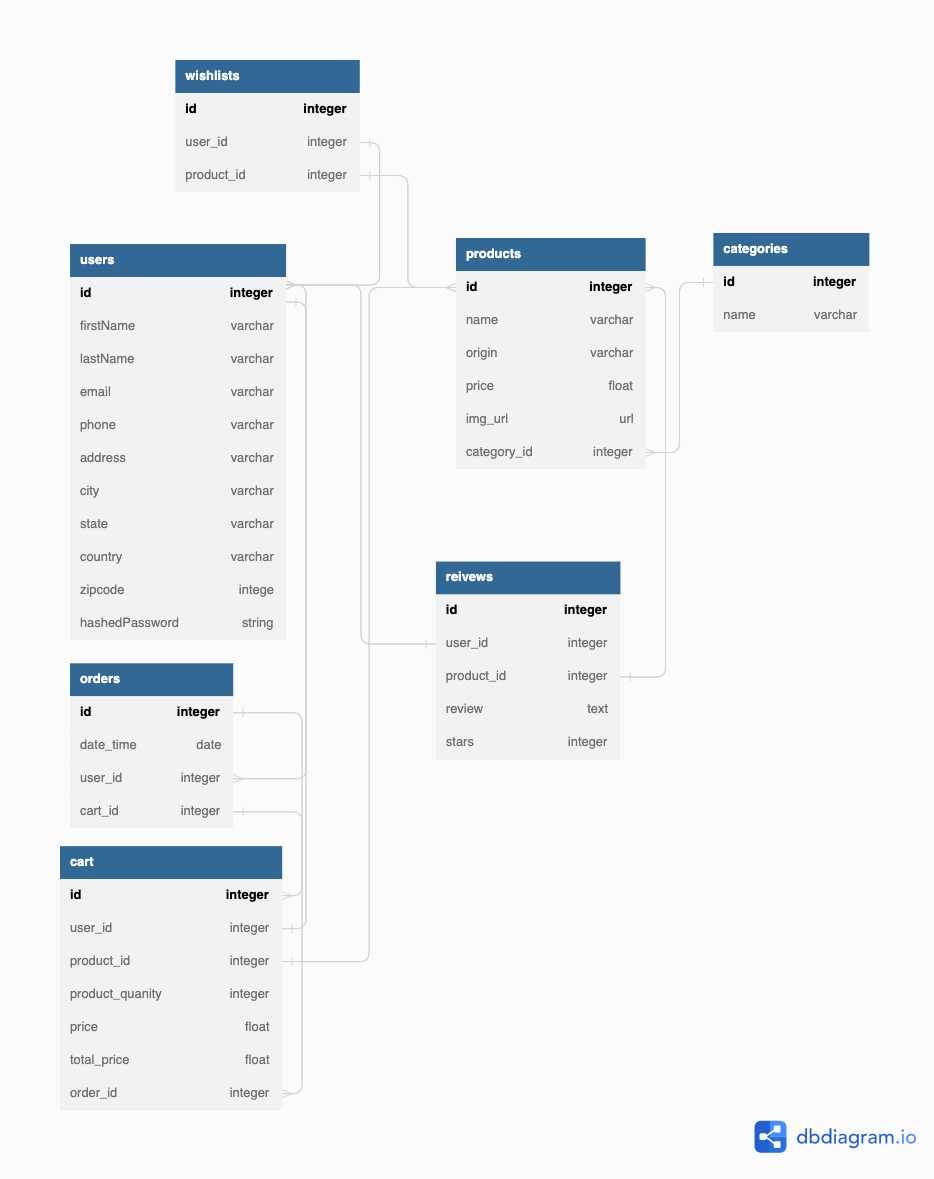
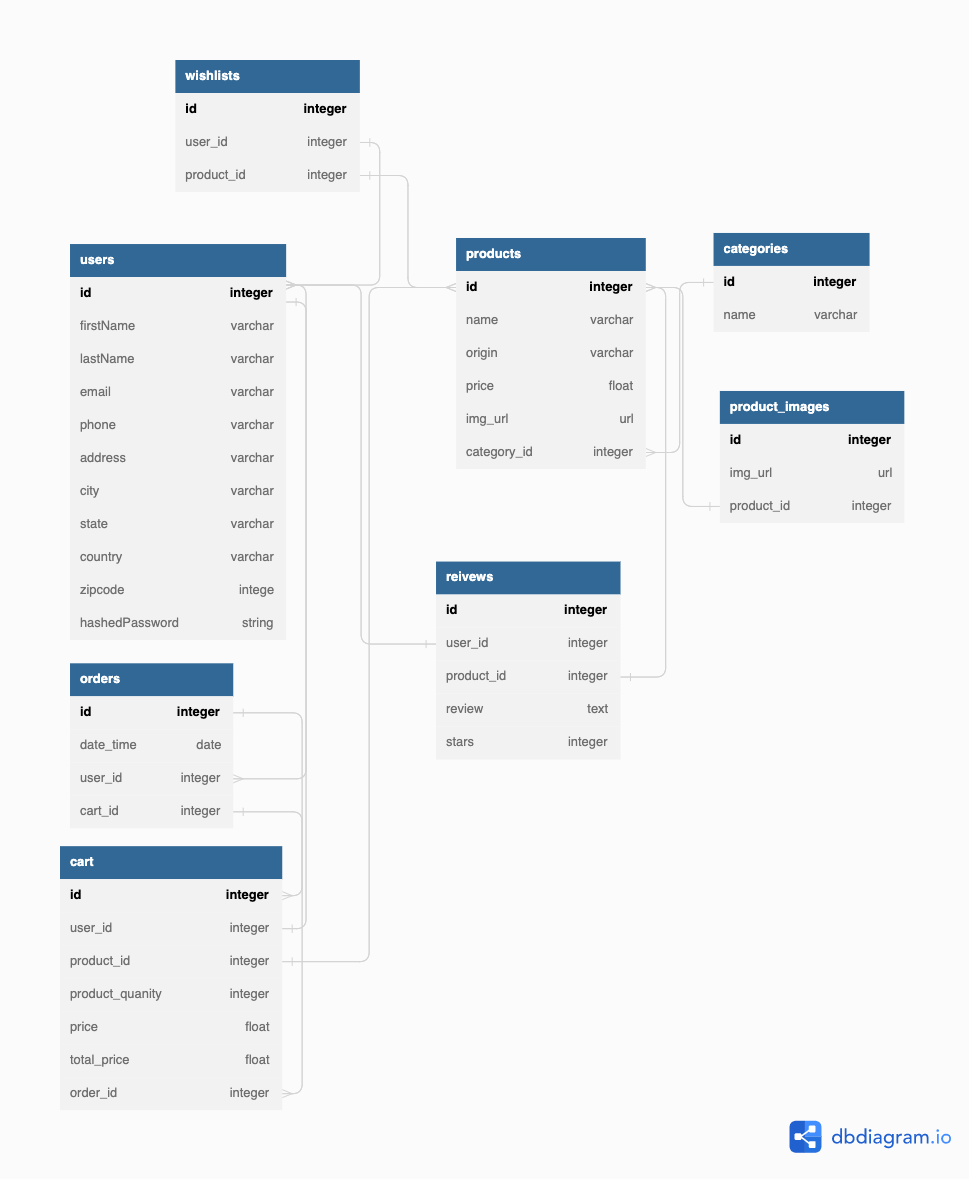
added relationships

diff --git a/app/models/user.py b/app/models/user.py
@@ -10,6 +10,23 @@ def add_prefix_for_prod(attr):
         return attr
 
 
+cart_products = db.Table(
+    "cart_products",
+    db.Column(
+        "product_id",
+        db.Integer,
+        db.ForeignKey("products.id"),
+        primary_key=True
+    ),
+    db.Column(
+        "cart_id",
+        db.Integer,
+        db.ForeignKey("carts.id"),
+        primary_key=True
+    )
+)
+
+
 class User(db.Model, UserMixin):
     __tablename__ = 'users'
 
@@ -27,6 +44,11 @@ class User(db.Model, UserMixin):
     state = db.Column(db.String(40))
     country = db.Column(db.String(40), default='United States')
     zip_code = db.Column(db.Integer)
+
+    cart = db.relationship('Cart', back_populates='user', cascade='all, delete-orphan')
+    order = db.relationship('Order', back_populates='user', cascade='all, delete-orphan')
+    review = db.relationship('Review', back_populates='user', cascade='all, delete-orphan')
+    wishlist = db.relationship('Wishlist', back_populates='user', cascade='all, delete-orphan')
 
     @property
     def password(self):
@@ -61,6 +83,13 @@ class Product(db.Model):
     category_id = db.Column(db.Integer, db.ForeignKey(
         add_prefix_for_prod('categories.id')), nullable=False)
 
+    product_images = db.relationship(
+        'ProductImage', back_populates='product', cascade='all, delete-orphan')
+    category = db.relationship('Category', back_populates='product')
+    cart = db.relationship('Cart', secondary='cart_products', back_populates='product')
+    review = db.relationship('Review', back_populates='product')
+    wishlist = db.relationship('Wishlist', back_populates='product')
+
     def to_dict(self):
         return {
             'id': self.id,
@@ -68,6 +97,45 @@ class Product(db.Model):
             'origin': self.origin,
             'price': self.price,
             'categoryId': self.category_id
+        }
+
+
+class ProductImage(db.Model):
+    __tablename__ = 'product_images'
+
+    if environment == "production":
+        __table_args__ = {'schema': SCHEMA}
+
+    id = db.Column(db.Integer, primary_key=True)
+    image_url = db.Column(db.Text, nullable=False)
+    product_id = db.Column(db.Integer, db.ForeignKey(
+        add_prefix_for_prod('products.id')), nullable=False)
+
+    product = db.relationship('Product', back_populates='product_images')
+
+    def to_dict(self):
+        return {
+            'id': self.id,
+            'imageUrl': self.image_url,
+            'productId': self.product_id
+        }
+
+
+class Category(db.Model):
+    __tablename__ = 'categories'
+
+    if environment == "production":
+        __table_args__ = {'schema': SCHEMA}
+
+    id = db.Column(db.Integer, primary_key=True)
+    name = db.Column(db.String(55), nullable=False)
+
+    product = db.relationship('Product', back_populates='category')
+
+    def to_dict(self):
+        return {
+            'id': self.id,
+            'name': self.name,
         }
 
 
@@ -83,6 +151,9 @@ class Order(db.Model):
         add_prefix_for_prod('users.id')), nullable=False)
     cart_id = db.Column(db.Integer, db.ForeignKey(
         add_prefix_for_prod('carts.id')), nullable=False)
+
+    user = db.relationship('User', back_populates='order')
+    cart = db.relationship('Cart', back_populates='order')
 
     def to_dict(self):
         return {
@@ -110,6 +181,10 @@ class Cart(db.Model):
     order_id = db.Column(db.Integer, db.ForeignKey(
         add_prefix_for_prod('orders.id')), nullable=False)
 
+    user = db.relationship('User', back_populates='cart')
+    order = db.relationship('Order', back_populates='cart')
+    product = db.relationship('Product', secondary='cart_products', back_populates='cart')
+
     def to_dict(self):
         return {
             'id': self.id,
@@ -119,4 +194,54 @@ class Cart(db.Model):
             'price': self.price,
             'totalPrice': self.total_price,
             'orderId': self.order_id
+        }
+
+
+class Review(db.Model):
+    __tablename__ = 'reviews'
+
+    if environment == "production":
+        __table_args__ = {'schema': SCHEMA}
+
+    id = db.Column(db.Integer, primary_key=True)
+    user_id = db.Column(db.Integer, db.ForeignKey(
+        add_prefix_for_prod('users.id')), nullable=False)
+    product_id = db.Column(db.Integer, db.ForeignKey(
+        add_prefix_for_prod('products.id')), nullable=False)
+    review = db.Column(db.Text, nullable=False)
+    stars = db.Column(db.Integer, nullable=False)
+
+    user = db.relationship('User', back_populates='review')
+    product = db.relationship('Product', back_populates='review')
+
+    def to_dict(self):
+        return {
+            'id': self.id,
+            'userId': self.user_id,
+            'productId': self.product_id,
+            'review': self.review,
+            'stars': self.stars
+        }
+
+class Wishlist(db.Model):
+    __tablename__ = 'wishlists'
+
+    if environment == "production":
+        __table_args__ = {'schema': SCHEMA}
+
+    id = db.Column(db.Integer, primary_key=True)
+    user_id = db.Column(db.Integer, db.ForeignKey(
+        add_prefix_for_prod('users.id')), nullable=False)
+    product_id = db.Column(db.Integer, db.ForeignKey(
+        add_prefix_for_prod('products.id')), nullable=False)
+
+    user = db.relationship('User', back_populates='wishlist')
+    product = db.relationship('Product', back_populates='wishlist')
+
+
+    def to_dict(self):
+        return {
+            'id': self.id,
+            'userId': self.user_id,
+            'productId': self.product_id
         }

diff --git a/app/models/__init__.py b/app/models/__init__.py
@@ -1,3 +1,3 @@
 from .db import db
-from .user import User
+from .user import User, Product, ProductImage, Category, Order, Cart, Review, Wishlist
 from .db import environment, SCHEMA
